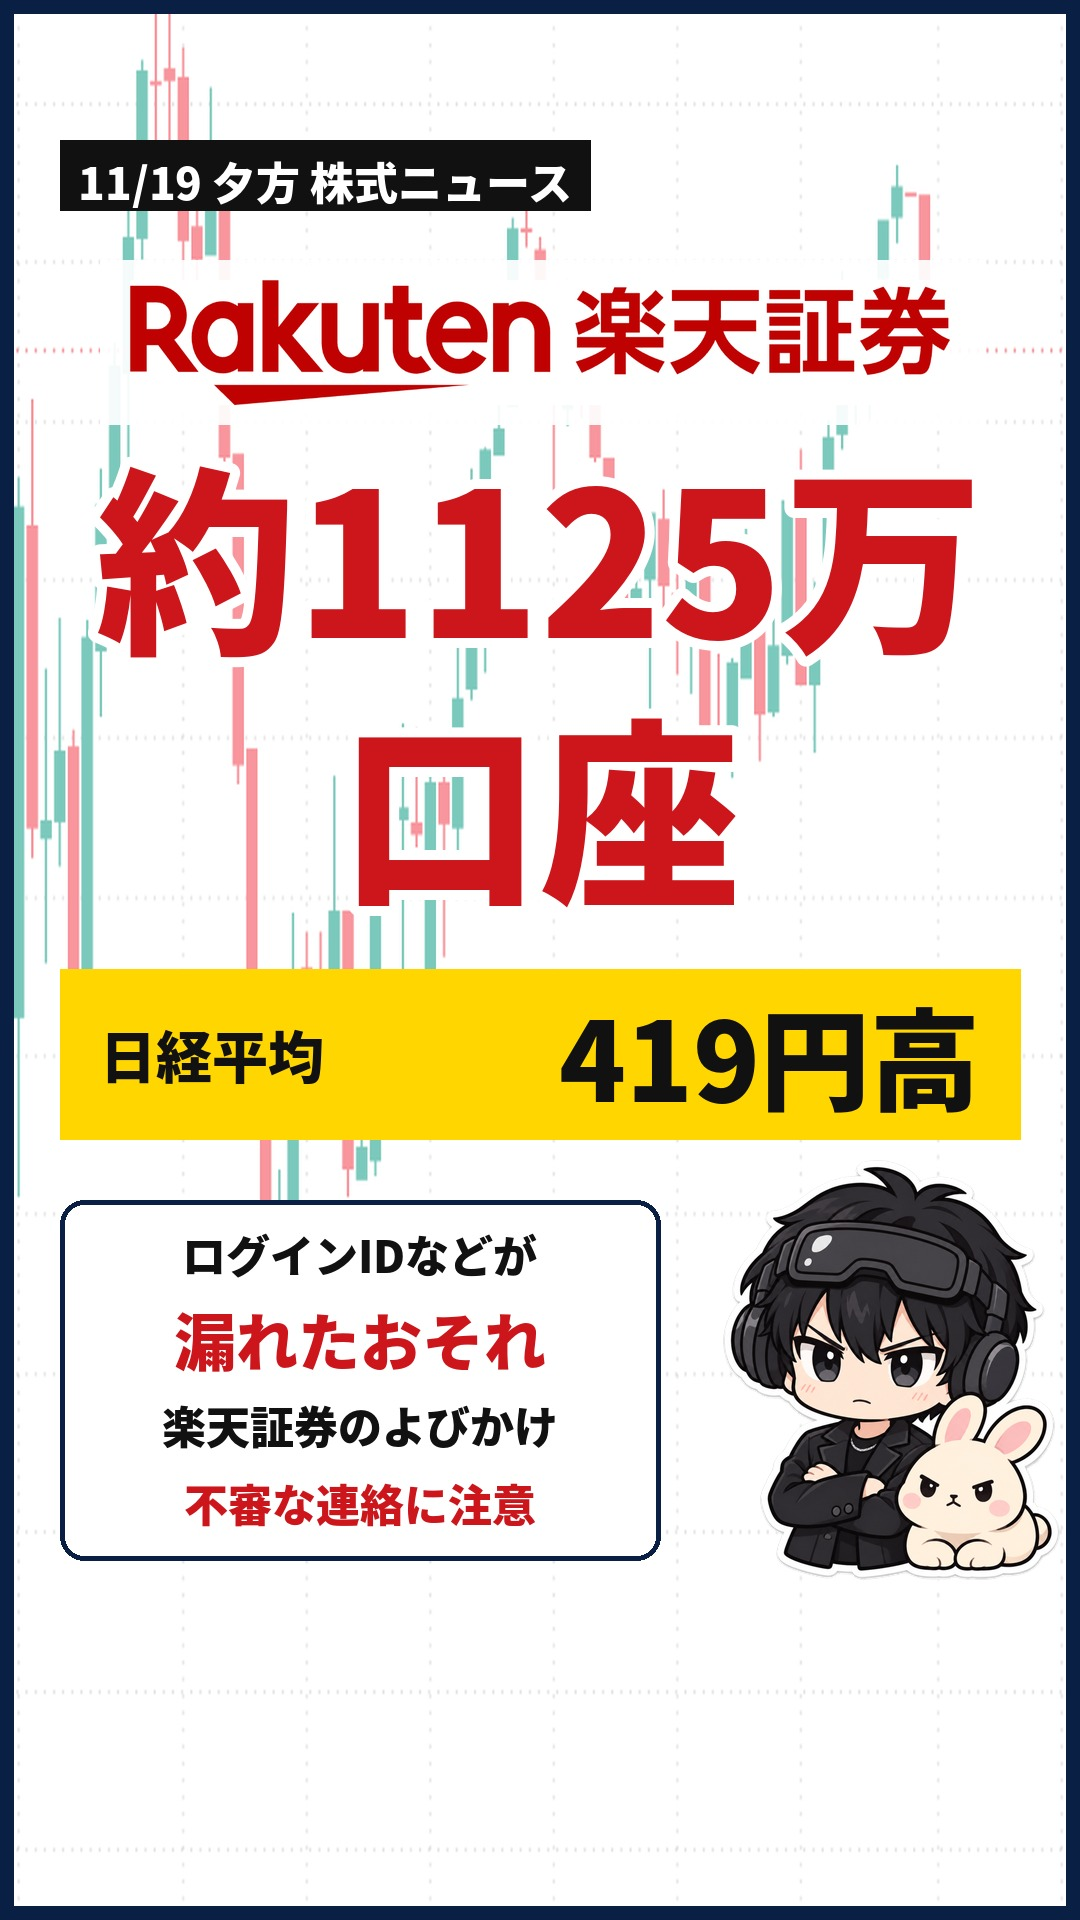
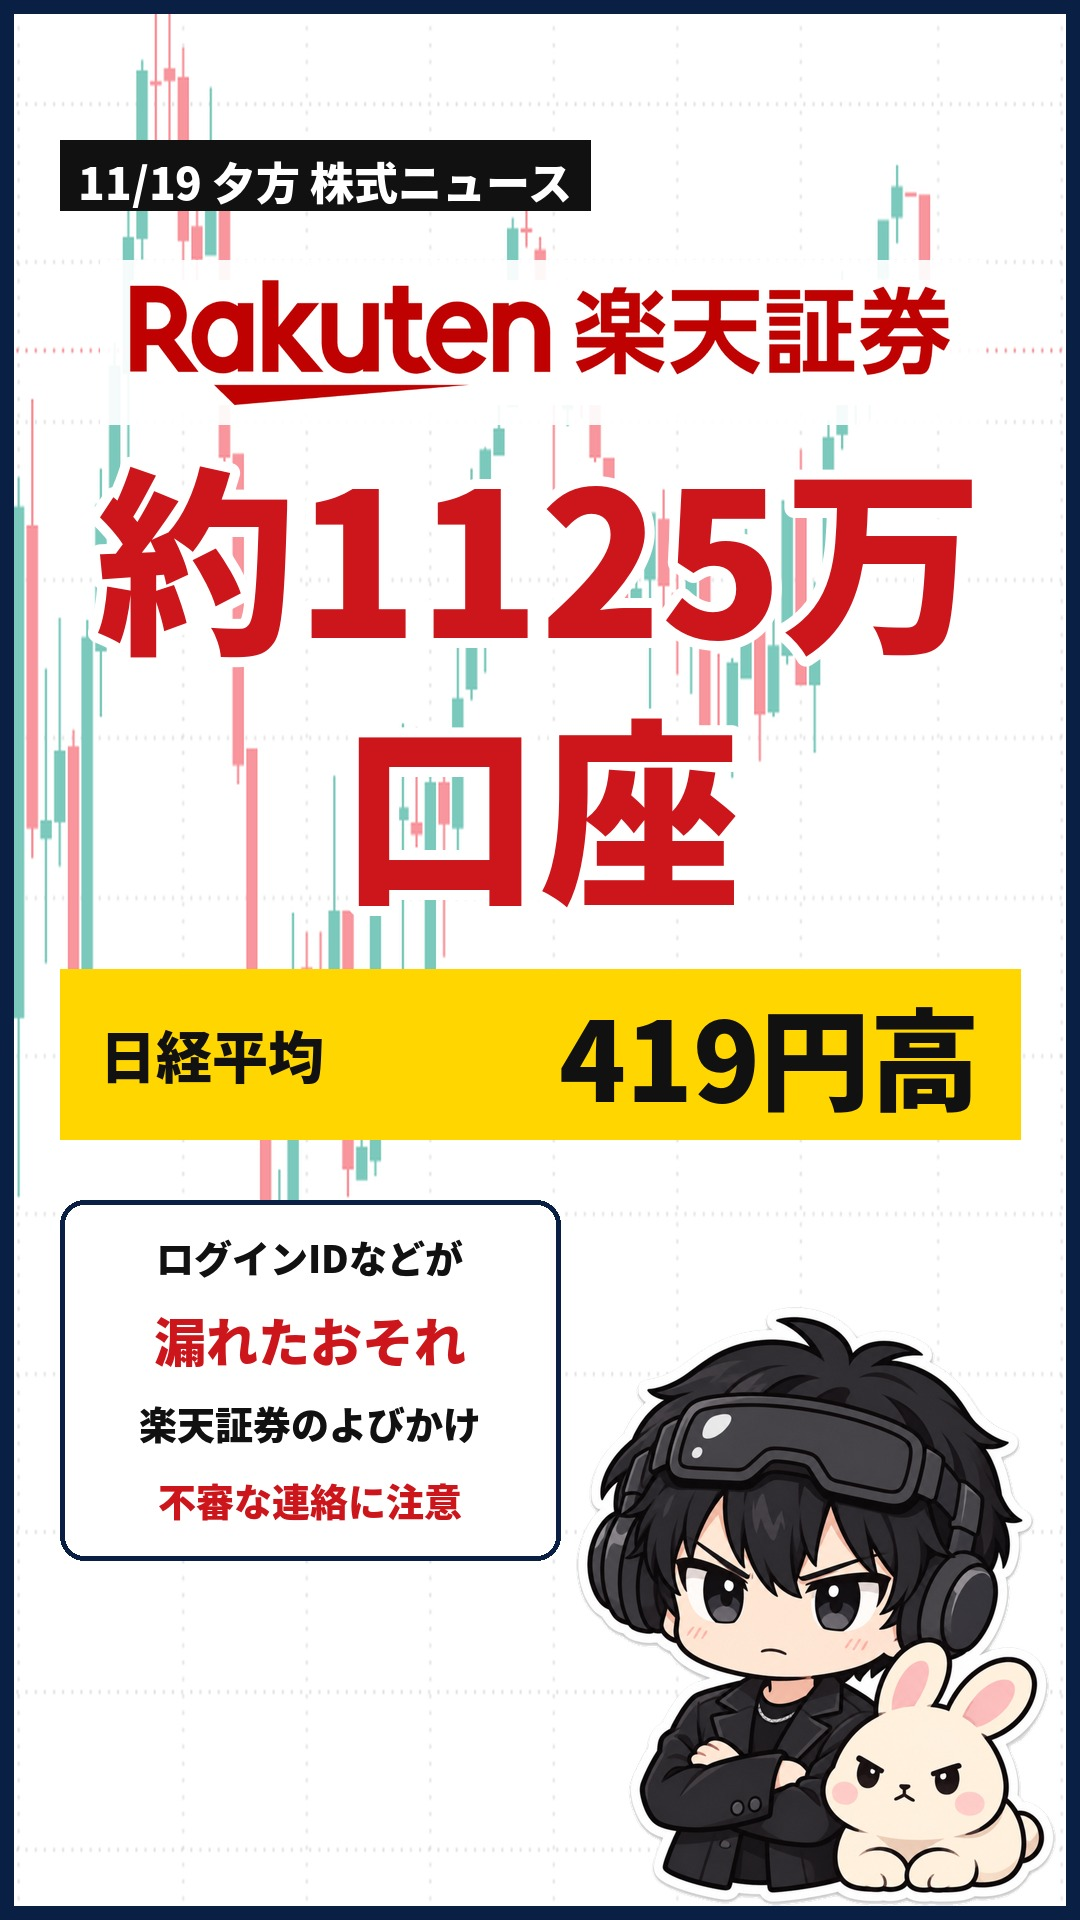
11/19 サムネを C2（立ち絵1.5倍）に
Claude-Session: https://claude.ai/code/session_013hiH71dx9uuu9vFJ2oP1RV

Changed region(s): [[0.1222, 0.5938, 0.9778, 1.0]]

diff --git a/n1119e/index.html b/n1119e/index.html
@@ -71,7 +71,7 @@ https://youtu.be/（公開後に入れる）
 <h2>ショート（56秒）</h2>
 <div class="s"><video src="short08.mp4?v=1119e5" poster="short08.jpg?v=1119e5" controls playsinline preload="metadata"></video></div>
 <p><a href="short08.mp4?v=1119e5">動画だけを開く</a></p>
-<h2>サムネ</h2><img src="thumb_yoko_1119e.jpg?v=1119eC" alt="横のサムネ"><div class="s"><img src="thumb_short_1119e.jpg?v=1119eC" alt="ショートのサムネ"></div>
+<h2>サムネ</h2><img src="thumb_yoko_1119e.jpg?v=1119eC2" alt="横のサムネ"><div class="s"><img src="thumb_short_1119e.jpg?v=1119eC2" alt="ショートのサムネ"></div>
 <h2>出典</h2><ul>
 <li>楽天証券の不正アクセス：ITmedia（11/17）・Impress Watch・INTERNET Watch・ケータイ Watch、楽天証券のお知らせ</li>
 <li>アメリカの水曜日の取引：株探「米国市場データ」（11/19 7:44）・フィスコ（7:46）・MINKABU PRESS</li>
